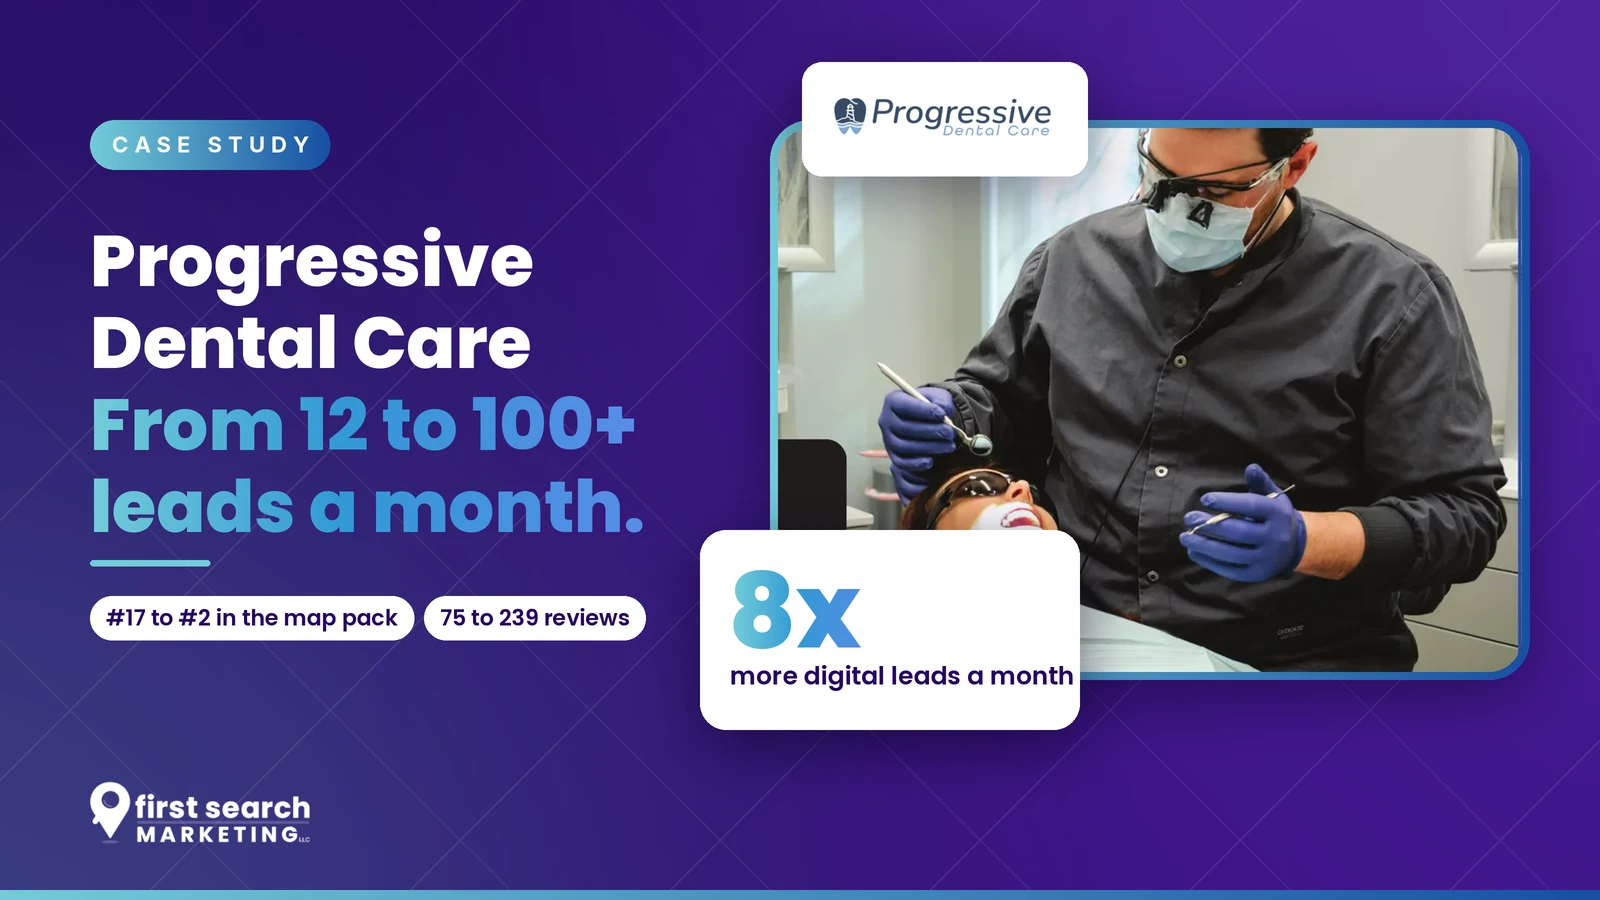
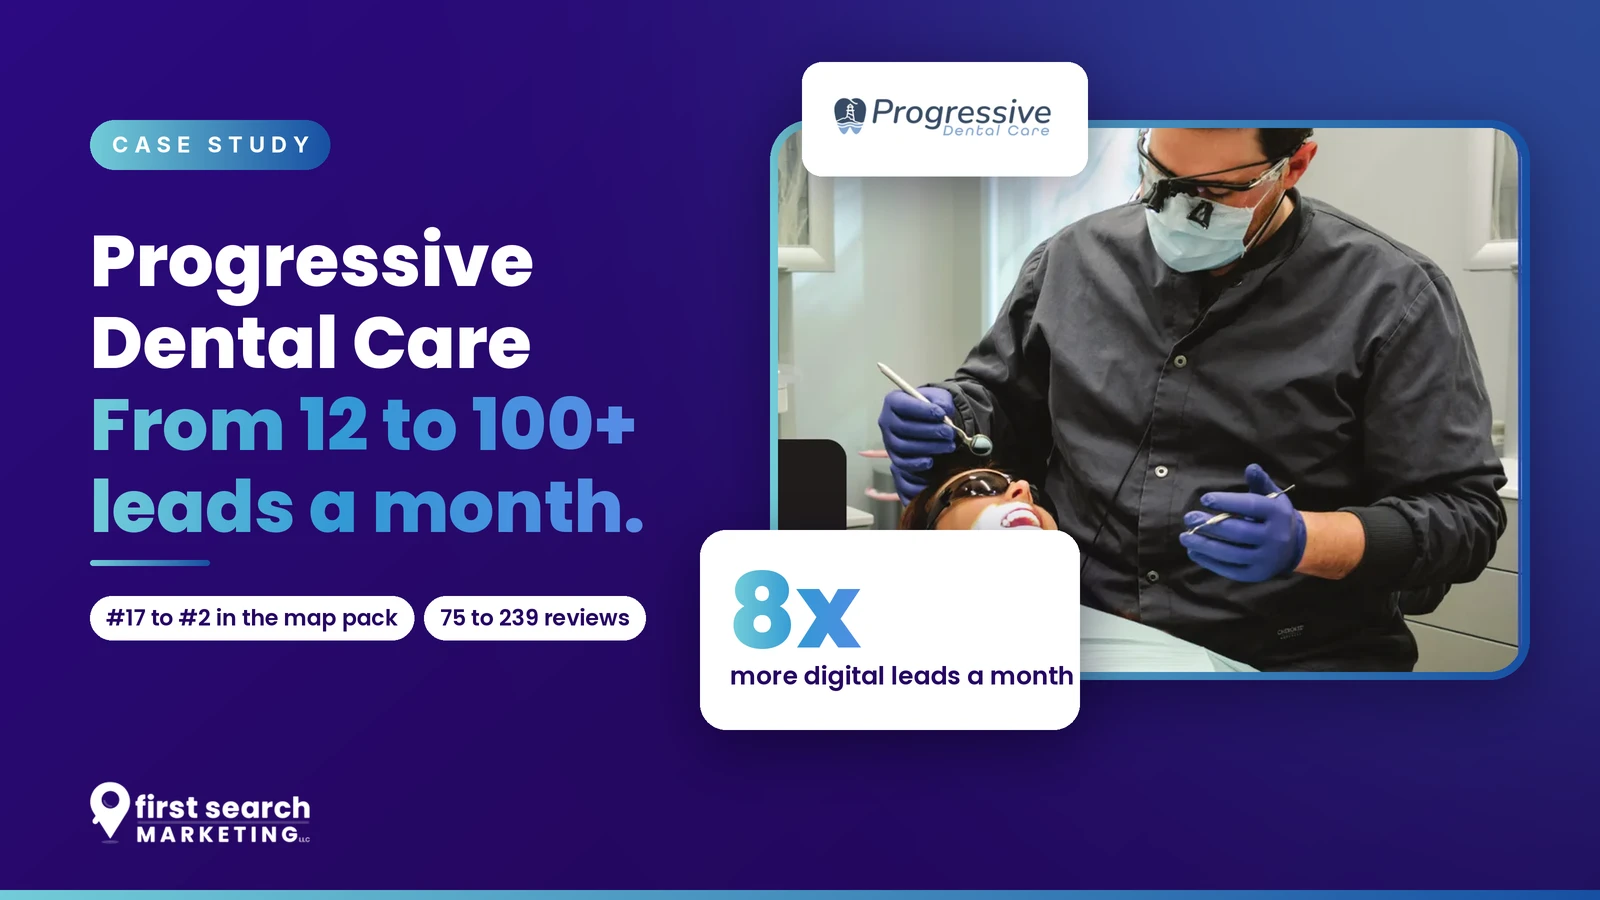
Featured images: use the site's four section styles per category
Case study purple with blue splash, blog white geometric with gradient-bordered
pills, video blue into dark blue, podcast grey.

Claude-Session: https://claude.ai/code/session_013fjRDgxqUEnUcVR5QGeKxu

diff --git a/elementor/build/assets_src/featured_images.py b/elementor/build/assets_src/featured_images.py
@@ -32,24 +32,38 @@ def shadow(img, box, r, blur=30, alpha=120, dy=18):
     ImageDraw.Draw(m).rounded_rectangle([x0, y0 + dy * S, x1, y1 + dy * S], r, fill=alpha)
     img.paste(Image.new('RGB', img.size, (10, 2, 35)), (0, 0), m.filter(ImageFilter.GaussianBlur(blur * S)))
 
-# One background per post category, so a card's type reads at a glance on the Resources grid.
-# base colour, top-right glow, bottom-left glow, centre-right glow
-THEMES = {
-    'case':    ((37, 7, 98),   (110, 60, 200), AQUA, (70, 20, 150)),  # brand purple
-    'blog':    ((10, 38, 112), SKY,  AQUA, (40, 110, 200)),   # deep royal blue
-    'video':   ((4, 58, 78),   AQUA, SKY,  (20, 120, 140)),   # deep teal
-    'podcast': ((10, 14, 30),  (60, 90, 140), AQUA, (30, 50, 90)),  # midnight charcoal
-}
-def base(theme='case'):
-    c, g1, g2, g3 = THEMES[theme]
-    bg = Image.new('RGB', (w, h), c)
-    glow(bg, int(w * .98), int(h * .08), 780 * S, g1, 150); glow(bg, int(w * .02), int(h * 1.05), 620 * S, g2, 70); glow(bg, int(w * .78), int(h * .62), 520 * S, g3, 120)
-    lines = Image.new('L', (w, h), 0); d = ImageDraw.Draw(lines)
-    for x in range(-h, w, 260 * S): d.line([(x, h), (x + h, 0)], fill=22, width=2 * S); d.line([(x, 0), (x + h, h)], fill=14, width=2 * S)
-    bg.paste(Image.new('RGB', (w, h), WHITE), (0, 0), lines)
+# The site's four section styles, one per post category, so a card's type reads at a glance:
+#   purple  = purple section with the blue splash (.fs-dark)        -> case studies
+#   white   = light geometric boxes (.fs-geo), gradient-bordered pills -> blog
+#   blue    = sky blue into dark blue                               -> videos
+#   grey    = brand grey (#D9D8D7)                                   -> podcast
+CATEGORY = {'case': 'purple', 'blog': 'white', 'video': 'blue', 'podcast': 'grey'}
+T = {'light': False}
+def lin(size, angle_stops, diag=True):
+    """Diagonal (top-left to bottom-right) gradient."""
+    gw, gh = size; small = hgrad((256, 1), angle_stops).load(); g = Image.new('RGB', (gw // 8, gh // 8)); px = g.load()
+    for y in range(g.height):
+        for x in range(g.width):
+            t = (x / g.width * .6 + y / g.height * .4) if diag else x / g.width; px[x, y] = small[min(255, int(t * 255)), 0]
+    return g.resize(size, Image.BICUBIC)
+def base(style):
+    T['light'] = style in ('white', 'grey'); T['style'] = style
+    if style == 'purple':   # --fs-grad-purple + --fs-glow
+        bg = lin((w, h), [(0, (43, 10, 128)), (.55, (37, 7, 98)), (1, (32, 5, 86))])
+        glow(bg, int(w * 1.0), 0, 620 * S, SKY, 115)
+    elif style == 'blue':
+        bg = lin((w, h), [(0, SKY), (.5, ROYAL), (1, (11, 36, 92))])
+        glow(bg, int(w * .02), 0, 560 * S, AQUA, 60)
+    elif style == 'grey':
+        bg = lin((w, h), [(0, (236, 235, 234)), (1, (217, 216, 215))])
+        glow(bg, int(w * .8), int(h * .45), 520 * S, WHITE, 120)
+    else:                   # white geometric
+        geo = Image.open(A + 'design/bg-geometric.jpg').convert('RGB'); sc = max(w / geo.width, h / geo.height)
+        bg = geo.resize((round(geo.width * sc), round(geo.height * sc)), Image.LANCZOS).crop((0, 0, w, h))
     return bg
+def ink(): return NAVY if T['light'] else WHITE
 def finish(bg, name):
-    logo = Image.open(A + 'logo-white.png').convert('RGBA'); lw = 220 * S
+    logo = Image.open(A + ('logo.png' if T['light'] else 'logo-white.png')).convert('RGBA'); lw = 220 * S
     logo = logo.resize((lw, round(logo.height * lw / logo.width)), Image.LANCZOS)
     bg.paste(logo, (90 * S, h - logo.height - 56 * S), logo)
     bg.paste(hgrad((w, 10 * S), GRAD), (0, h - 10 * S))
@@ -59,19 +73,20 @@ def chip(bg, x, y, label):
     """Gradient pill with spaced capitals."""
     d = ImageDraw.Draw(bg); f = INTER(22); sp = 6 * S
     tw = sum(d.textlength(c, font=f) + sp for c in label) - sp
-    m = rounded_mask((int(tw + 44 * S), 50 * S), 25 * S); bg.paste(hgrad(m.size, GRAD), (x, y), m)
+    m = rounded_mask((int(tw + 44 * S), 50 * S), 25 * S); bg.paste(hgrad(m.size, GRAD), (int(x), int(y)), m)
     cx = x + 22 * S
     for c in label: d.text((cx, y + 11 * S), c, font=f, fill=WHITE); cx += d.textlength(c, font=f) + sp
     return y + 50 * S
 def headline(bg, x, y, white_lines, grad_lines, size=78, lh=88):
     d = ImageDraw.Draw(bg); f = font('ExtraBold', size)
-    for line in white_lines: d.text((x, y), line, font=f, fill=WHITE); y += lh * S
+    for line in white_lines: d.text((x, y), line, font=f, fill=ink()); y += lh * S
+    tg = [(0, SKY), (1, ROYAL)] if T['light'] else [(0, AQUA), (1, (214, 240, 248))] if T.get('style') == 'blue' else TEXTGRAD
     for line in grad_lines:
         m = Image.new('L', (w, h), 0); ImageDraw.Draw(m).text((x, y), line, font=f, fill=255)
-        bb = m.getbbox(); full = Image.new('RGB', (w, h)); full.paste(hgrad((bb[2] - x + 10, bb[3] - y + 30 * S), TEXTGRAD), (x, y)); bg.paste(full, (0, 0), m); y += lh * S
+        bb = m.getbbox(); full = Image.new('RGB', (w, h)); full.paste(hgrad((bb[2] - x + 10, bb[3] - y + 30 * S), tg), (x, y)); bg.paste(full, (0, 0), m); y += lh * S
     return y
 def rule(bg, x, y):
-    ImageDraw.Draw(bg).rounded_rectangle([x, y, x + 120 * S, y + 6 * S], 3 * S, fill=AQUA); return y + 6 * S
+    bg.paste(hgrad((120 * S, 6 * S), GRAD), (x, y), rounded_mask((120 * S, 6 * S), 3 * S)); return y + 6 * S
 def pills(bg, x, y, items, logo=False):
     """White pills: stage logos (firstX) or plain labels."""
     d = ImageDraw.Draw(bg); f = font('ExtraBold' if logo else 'SemiBold', 22)
@@ -80,7 +95,11 @@ def pills(bg, x, y, items, logo=False):
             fw = d.textlength('first', font=f); tw = fw + d.textlength(it, font=f)
         else:
             tw = d.textlength(it, font=f)
-        d.rounded_rectangle([x, y, x + tw + 32 * S, y + 44 * S], 22 * S, fill=WHITE)
+        if T['light']:
+            m = rounded_mask((int(tw + 32 * S), 44 * S), 22 * S); bg.paste(hgrad(m.size, GRAD), (int(x), int(y)), m)
+            d.rounded_rectangle([x + 3 * S, y + 3 * S, x + tw + 29 * S, y + 41 * S], 19 * S, fill=WHITE)
+        else:
+            d.rounded_rectangle([x, y, x + tw + 32 * S, y + 44 * S], 22 * S, fill=WHITE)
         if logo:
             d.text((x + 16 * S, y + 5 * S), 'first', font=f, fill=SKY); d.text((x + 16 * S + fw, y + 5 * S), it, font=f, fill=NAVY)
         else:
@@ -91,7 +110,7 @@ X0 = 90 * S
 
 # ---------- 1. Case study: Progressive Dental Care ----------
 def case_study():
-    bg = base('case')
+    bg = base(CATEGORY['case'])
     # right: practice photo in a gradient frame, logo card and the 8x stat card overlapping it
     fw_, fh_ = 760 * S, 560 * S; fx, fy = w - fw_ - 70 * S, 120 * S
     shadow(bg, (fx, fy, fx + fw_, fy + fh_), 40 * S)
@@ -127,11 +146,11 @@ def wheel_and_chris(bg, ws=720, ch_h=720):
     glow(bg, wx + ws // 2, wy + ws // 2, int(ws * .56), AQUA, 90); bg.paste(wheel, (wx, wy), wheel)
     chris = Image.open(A + 'design/chris-cutout.webp').convert('RGBA'); chh = ch_h * S; cw = round(chris.width * chh / chris.height)
     chris = chris.resize((cw, chh), Image.LANCZOS); cx = wx - int(cw * .02); cy = h - chh + 6 * S
-    sh = Image.new('L', (w, h), 0); sh.paste(chris.split()[3].point(lambda v: v * .55), (cx - 28 * S, cy + 10 * S))
-    bg.paste(Image.new('RGB', (w, h), (12, 2, 40)), (0, 0), sh.filter(ImageFilter.GaussianBlur(26 * S)))
+    sh = Image.new('L', (w, h), 0); sh.paste(chris.split()[3].point(lambda v: v * (.25 if T['light'] else .55)), (cx - 28 * S, cy + 10 * S))
+    bg.paste(Image.new('RGB', (w, h), (12, 2, 40) if not T['light'] else (90, 90, 110)), (0, 0), sh.filter(ImageFilter.GaussianBlur(26 * S)))
     bg.paste(chris, (cx, cy), chris)
 def blog():
-    bg = base('blog'); wheel_and_chris(bg)
+    bg = base(CATEGORY['blog']); wheel_and_chris(bg)
     y = chip(bg, X0, 120 * S, '2027 MARKETING TRENDS') + 40 * S
     y = headline(bg, X0, y, ['Top 2027', 'marketing trends'], ['to scale your', 'business.'], size=76, lh=86)
     y = rule(bg, X0, y + 20 * S) + 32 * S
@@ -140,7 +159,7 @@ def blog():
 
 # ---------- 3. Video: First Search Marketing in two minutes ----------
 def video():
-    bg = base('video'); wheel_and_chris(bg)
+    bg = base(CATEGORY['video']); wheel_and_chris(bg)
     y = chip(bg, X0, 120 * S, 'VIDEO · 2 MINUTES') + 40 * S
     y = headline(bg, X0, y, ['First Search', 'Marketing'], ['in two minutes.'], size=80, lh=90)
     y = rule(bg, X0, y + 20 * S) + 32 * S
@@ -151,7 +170,7 @@ def video():
 # ---------- 4. Podcast: reusable episode image (edit the episode label and title, re-run) ----------
 def mic(bg, cx, cy, r):
     """Simple microphone mark in a glowing disc."""
-    glow(bg, cx, cy, int(r * 1.5), AQUA, 70)
+    glow(bg, cx, cy, int(r * 1.5), WHITE if T['light'] else AQUA, 160 if T['light'] else 70)
     d = ImageDraw.Draw(bg); d.ellipse([cx - r, cy - r, cx + r, cy + r], fill=WHITE)
     mw, mh = int(r * .36), int(r * .78); top = cy - int(r * .55)
     m = Image.new('L', bg.size, 0); ImageDraw.Draw(m).rounded_rectangle([cx - mw // 2, top, cx + mw // 2, top + mh], mw // 2, fill=255)
@@ -161,10 +180,10 @@ def mic(bg, cx, cy, r):
     d.line([cx, top + mh + a - int(r * .22), cx, cy + int(r * .62)], fill=ROYAL, width=lw)
     d.line([cx - int(r * .2), cy + int(r * .62), cx + int(r * .2), cy + int(r * .62)], fill=ROYAL, width=lw)
     for i, rr in enumerate((1.25, 1.5, 1.75)):
-        d.arc([cx - int(r * rr), cy - int(r * rr), cx + int(r * rr), cy + int(r * rr)], -35, 35, fill=(150, 200, 240), width=lw // 2 + 2)
-        d.arc([cx - int(r * rr), cy - int(r * rr), cx + int(r * rr), cy + int(r * rr)], 145, 215, fill=(150, 200, 240), width=lw // 2 + 2)
+        d.arc([cx - int(r * rr), cy - int(r * rr), cx + int(r * rr), cy + int(r * rr)], -35, 35, fill=ROYAL if T['light'] else (150, 200, 240), width=lw // 2 + 2)
+        d.arc([cx - int(r * rr), cy - int(r * rr), cx + int(r * rr), cy + int(r * rr)], 145, 215, fill=ROYAL if T['light'] else (150, 200, 240), width=lw // 2 + 2)
 def podcast(label='PODCAST · EPISODE 01', white=['Episode title', 'goes here'], grad=['in two lines.'], name='featured-podcast-template.webp'):
-    bg = base('podcast'); mic(bg, int(w * .74), int(h * .46), 190 * S)
+    bg = base(CATEGORY['podcast']); mic(bg, int(w * .74), int(h * .46), 190 * S)
     y = chip(bg, X0, 120 * S, label) + 40 * S
     y = headline(bg, X0, y, white, grad, size=76, lh=86)
     y = rule(bg, X0, y + 20 * S) + 32 * S

diff --git a/assets/img/featured/POST-DESCRIPTIONS.md b/assets/img/featured/POST-DESCRIPTIONS.md
@@ -1,14 +1,17 @@
 # Featured images and descriptions for posts
 
 All images are 1600 × 900 WebP, matching the Resources card shape.
-Each category has its own background so the type is clear on the grid:
+Each category uses one of the site's four section styles, so the post type is clear on the grid:
 
-| Category | Background | Base colour |
+| Category | Style | Colours |
 |---|---|---|
-| Case studies | Brand purple | `#250762` |
-| Blog | Royal blue | `#0A2670` |
-| Videos | Deep teal | `#043A4E` |
-| Podcast | Midnight | `#0A0E1E` |
+| Case studies | Purple with the blue splash (like `fs-dark` sections) | `#2B0A80` to `#250762`, sky `#3299D5` glow |
+| Blog | White geometric boxes, gradient-bordered pills | `bg-geometric.jpg`, aqua `#72CCD8` to royal `#174FA2` borders |
+| Videos | Blue into dark blue | `#3299D5` to `#174FA2` to `#0B245C` |
+| Podcast | Grey | `#ECEBEA` to `#D9D8D7` |
+
+To swap which style a category uses, edit `CATEGORY` at the top of
+`elementor/build/assets_src/featured_images.py` and re-run it.
 
 Regenerate the images or make new ones with
 `elementor/build/assets_src/featured_images.py`. For a new podcast
